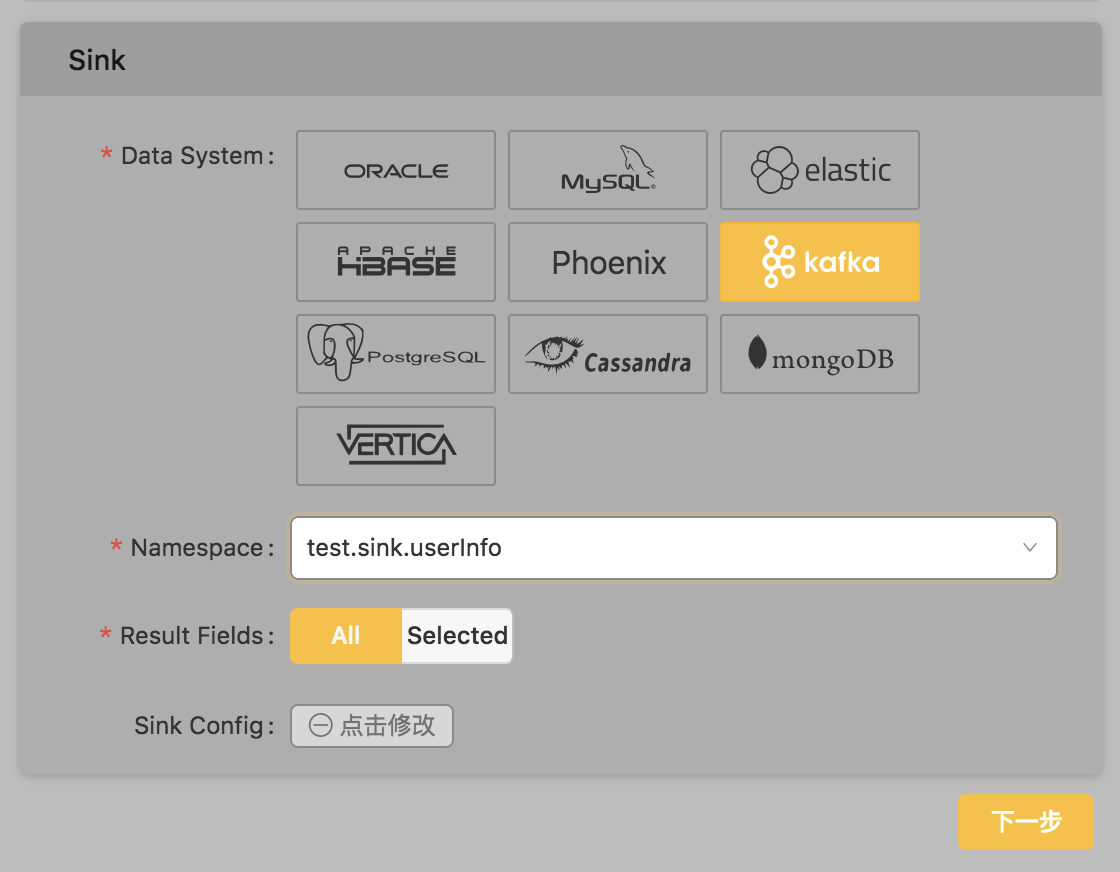
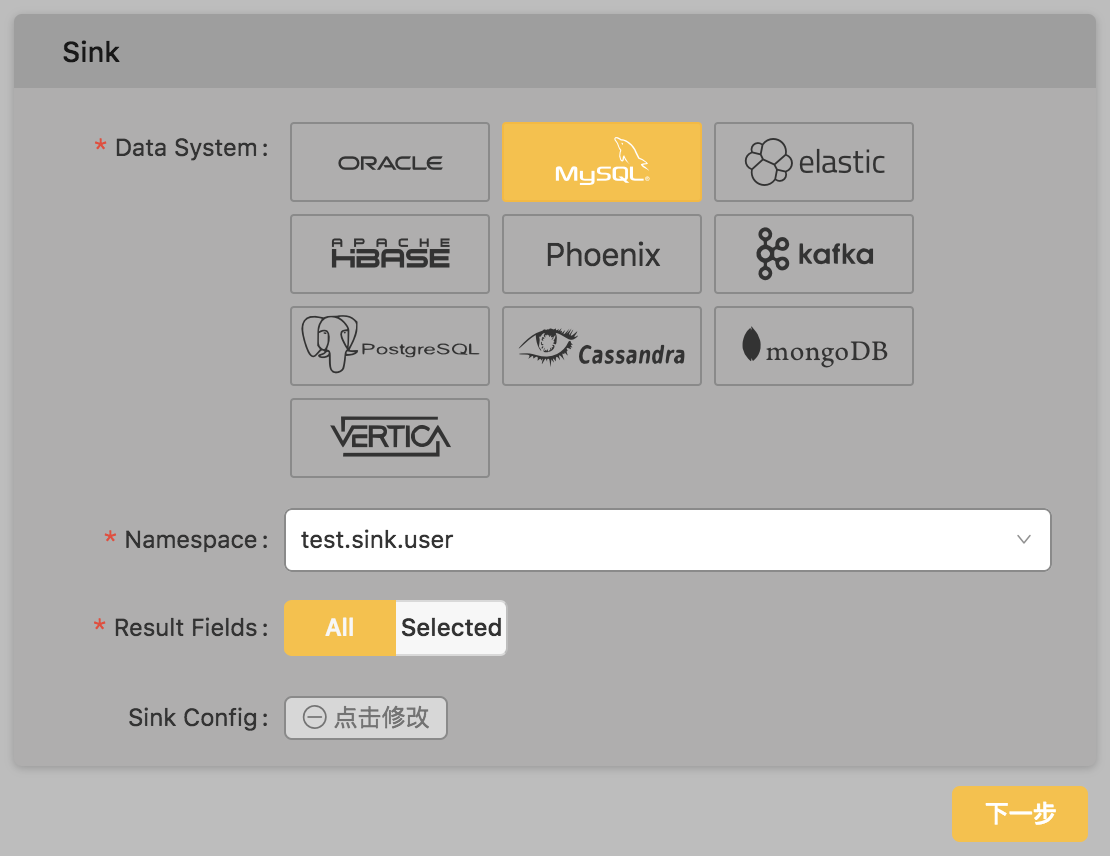
docs update

diff --git a/docs/quick-start.md b/docs/quick-start.md
@@ -7,7 +7,7 @@ description: Wormhole WH_VERSION_SHORT Quick Start page
 
 本章节以一个流式项目的实施示例介绍 Wormhole 页面的使用流程。
 
-业务需求：实时处理 Kafka 中数据，处理过程中关联 Mysql 数据库某表，然后转换过滤数据，写入 Hbase 系统中。
+业务需求：实时处理 Kafka 中数据，处理过程中关联 Mysql 数据库某表，然后转换过滤数据，写入 Mysql 系统中。
 
 ### Admin 用户
 
@@ -29,24 +29,8 @@ description: Wormhole WH_VERSION_SHORT Quick Start page
    {
        "id": 1,
        "name": "test",
-       "phone": [
-           "18074546423",
-           "13254356624"
-       ],
-       "message": "2017-06-27 14:14:04,557|INFO",
-       "address": {
-           "province": "Beijing",
-           "city": "Beijing"
-       },
-       "contacts": [
-           {
-               "name": "test",
-               "phone": [
-                   "18074546452",
-                   "13254356643"
-               ]
-           }
-       ],
+       "phone": "18074546423",
+       "address": "Beijing",
        "time": "2017-12-22 10:00:00"
    }
    ```
@@ -57,27 +41,37 @@ description: Wormhole WH_VERSION_SHORT Quick Start page
 
 **5. Admin 创建 Sink Namespace**
 
-   <img src="https://github.com/edp963/wormhole/raw/master/docs/img/qiuck-start-create-sink-ns.png" alt="" width="600"/>
+   <img src="https://github.com/edp963/wormhole/raw/master/docs/img/qiuck-start-sink-instance-create.png" alt="" width="600"/>
+   
+   <img src="https://github.com/edp963/wormhole/raw/master/docs/img/qiuck-start-sink-database-create.png" alt="" width="600"/>
+   
+   <img src="https://github.com/edp963/wormhole/raw/master/docs/img/qiuck-start-sink-namespace-create.png" alt="" width="600"/>
 
-**6. Kafka 集群中创建 sink topic**
+**6. Kafka 集群中创建 Sink Topic**
 
 **7. Admin 创建 Lookup Namespace**
 
+   Lookup Instance/Database 配置图省略
+   
    <img src="https://github.com/edp963/wormhole/raw/master/docs/img/quick-start-create-lookup-ns.png" alt="" width="600"/>
 
 **8. Admin 创建 Project 并授权 Namespaces 和 Users**
 
+   将 Source Namespace, Sink Namespace, Lookup Namespace 和 demo User 授权给 Project
+   
    <img src="https://github.com/edp963/wormhole/raw/master/docs/img/quick-start-project.png" alt="" width="600"/>
 
 ### User 用户
 
 **1. User 登录系统后创建并启动 Stream**
 
-   <img src="https://github.com/edp963/wormhole/raw/master/docs/img/qiuck-start-stream_configs.png" alt="" width="600"/>
+   <img src="https://github.com/edp963/wormhole/raw/master/docs/img/qiuck-start-create-stream.png" alt="" width="600"/>
 
-   <img src="https://github.com/edp963/wormhole/raw/master/docs/img/qiuck-start-stream_running.png" alt="" width="600"/>
+   <img src="https://github.com/edp963/wormhole/raw/master/docs/img/qiuck-start-stream-configs.png" alt="" width="600"/>
+
+   <img src="https://github.com/edp963/wormhole/raw/master/docs/img/qiuck-start-stream-running.png" alt="" width="600"/>
    
-   <img src="https://github.com/edp963/wormhole/raw/master/docs/img/qiuck-start-stream_start.png" alt="" width="600"/>
+   <img src="https://github.com/edp963/wormhole/raw/master/docs/img/qiuck-start-stream-start.png" alt="" width="600"/>
 
 **2. User 创建并启动 Flow**
 
@@ -87,6 +81,10 @@ description: Wormhole WH_VERSION_SHORT Quick Start page
    
    <img src="https://github.com/edp963/wormhole/raw/master/docs/img/quick-start-flow-transform.png" alt="" width="600"/>
    
+   <img src="https://github.com/edp963/wormhole/raw/master/docs/img/quick-start-flow-lookupSql.png" alt="" width="600"/>
+   
+   <img src="https://github.com/edp963/wormhole/raw/master/docs/img/quick-start-flow-transform-result.png" alt="" width="600"/>
+
    <img src="https://github.com/edp963/wormhole/raw/master/docs/img/quick-start-flow-start.png" alt="" width="600"/>
 
 
